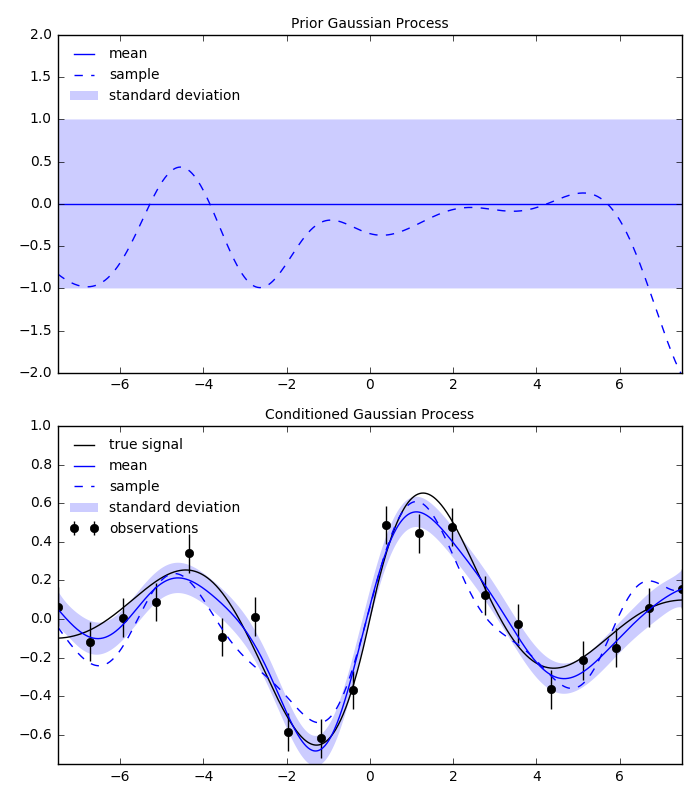
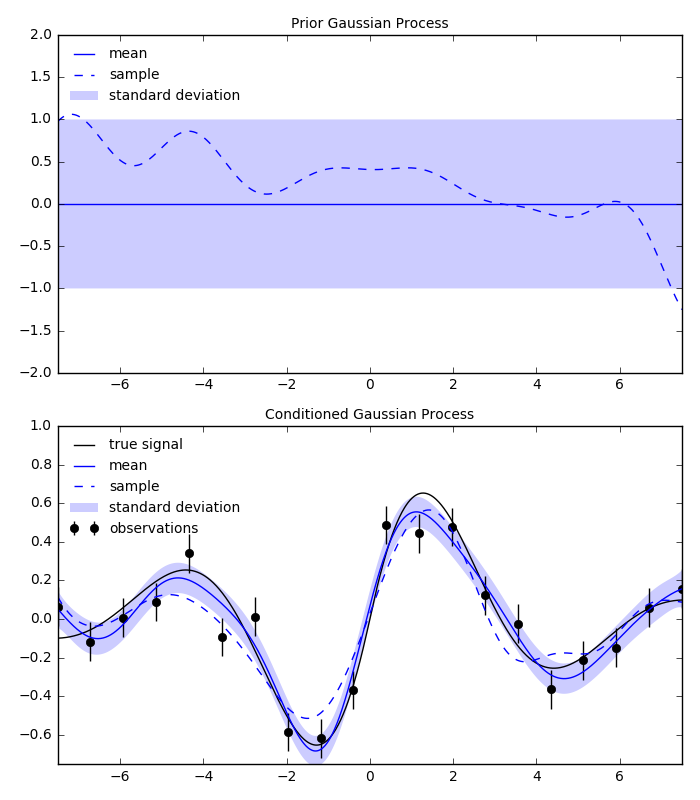
prior gaussian process now defaults to a squared exponential covariance function

diff --git a/rbf/gpr.py b/rbf/gpr.py
@@ -235,7 +235,7 @@ covariance functions described as
 and
 
 .. math::
-  C_u(x,x') = b\phi\\left(\\frac{||x - x'||_2}{c}\\right), 
+  C_u(x,x') = b\phi\\left(||x - x'||_2,c\\right), 
   
 where :math:`a`, :math:`b`, and :math:`c` are user specified 
 coefficients. The literature on radial basis functions and Gaussian 
@@ -245,7 +245,7 @@ positive definite radial function. One common choice for :math:`\phi`
 is the squared exponential function,
 
 .. math::
-  \phi(r) = \exp(-r^2),
+  \phi(r,c) = \exp\\left(-r^2/c^2\\right),
 
 which has the benefit of being infinitely differentiable. See [1] for 
 a list of commonly used radial functions as well as for more 
@@ -316,10 +316,10 @@ def _sigfigs(val,n):
   display purposes.
   '''
   if val == 0.0:
-    return 0.0
+    return np.float64(0.0)
   
   if ~np.isfinite(val):
-    return val
+    return np.float64(val)
     
   d = -np.int(np.log10(np.abs(val))) + n - 1 
   out = np.round(val,d)
@@ -572,9 +572,10 @@ def _prior_factory(basis,coeff,order):
   @_Memoize
   def mean(x,diff):
     a,b,c = coeff  
-    out = np.zeros(x.shape[0])
     if sum(diff) == 0:
-      out[:] = a
+      out = np.full(x.shape[0],a,dtype=float)
+    else:
+      out = np.zeros(x.shape[0],dtype=float)
 
     return out
       
@@ -582,7 +583,7 @@ def _prior_factory(basis,coeff,order):
   def covariance(x1,x2,diff1,diff2):
     a,b,c = coeff  
     diff = diff1 + diff2
-    out = b*(-1)**sum(diff2)*basis(x1,x2,eps=1.0/c,diff=diff)
+    out = b*(-1)**sum(diff2)*basis(x1,x2,eps=c,diff=diff)
     if np.any(~np.isfinite(out)):
       raise ValueError(
         'Encountered a non-finite prior covariance. This may be '
@@ -1209,22 +1210,24 @@ class GaussianProcess(object):
 class PriorGaussianProcess(GaussianProcess):
   ''' 
   A *PriorGaussianProcess* instance represents a stationary Gaussian 
-  process process which has a constant mean and a covariance function 
+  process which has a constant mean and a covariance function 
   described by a radial basis function. The prior can also be given a 
-  null space containing all polynomials of order *order*.  
+  null space containing all polynomials of order *order*.
 
   Parameters
   ----------
-  basis : RBF instance
-    Radial basis function describing the covariance function
-    
   coeff : 3-tuple  
-    Tuple of three distribution coefficients, *a*, *b*, and *c*. *a* 
-    is the mean, *b* scales the amplitude of the covariance, and *c* 
-    is the reciprocal of the shape parameter, *eps*, that is used to 
-    define *RBF* instances. In most cases *c* can be interpreted as 
-    the characteristic length-scale.
+    Tuple of three coefficients, *a*, *b*, and *c*, describing the 
+    prior probability distribution.  *a* is the mean and, when using 
+    the default value for *basis*, *b* and *c* describe the prior 
+    variance and characteristic length-scale.  In general, *b* scales 
+    the covariance function, and *c* is the shape parameter, *eps*, 
+    that is used to define *basis*.
       
+  basis : RBF instance, optional
+    Radial basis function describing the covariance function. Defaults 
+    to a squared exponential, *rbf.basis.se*.
+    
   order : int, optional
     Order of the polynomial null space. Defaults to -1, which means 
     that there is no null space.
@@ -1238,15 +1241,15 @@ class PriorGaussianProcess(GaussianProcess):
   exponential function with mean = 0, variance = 1, and characteristic 
   length scale = 2.
   
-  >>> from rbf.basis import ga,phs3
-  >>> gp = PriorGaussianProcess(ga,(0,1,2))
+  >>> gp = PriorGaussianProcess((0.0,1.0,2.0))
   
   Instantiate a PriorGaussianProcess which is equivalent to a 1-D thin 
   plate spline with penalty parameter 0.01. Then find the conditional 
   mean and uncertainty of the Gaussian process after incorporating 
   observations
   
-  >>> gp = PriorGaussianProcess(phs3,(0.0,0.01,1.0),order=1)
+  >>> from rbf.basis import phs3
+  >>> gp = PriorGaussianProcess((0.0,0.01,1.0),basis=phs3,order=1)
   >>> y = np.array([[0.0],[0.5],[1.0],[1.5],[2.0]])
   >>> d = np.array([0.5,1.5,1.25,1.75,1.0])
   >>> sigma = np.array([0.1,0.1,0.1,0.1,0.1])
@@ -1267,25 +1270,21 @@ class PriorGaussianProcess(GaussianProcess):
   3. Not all radial basis functions are positive definite, which means 
   that it is possible to instantiate a *PriorGaussianProcess* that 
   does not have a valid covariance function. The squared exponential 
-  basis function, *rbf.basis.ga*, is positive definite for all spatial 
+  basis function, *rbf.basis.se*, is positive definite for all spatial 
   dimensions. Furthermore, it is infinitely differentiable, which 
   means its derivatives are also positive definite. For this reason 
-  *rbf.basis.ga* is a generally safe choice for *basis*.
+  *rbf.basis.se* is a generally safe choice for *basis*.
 
   4. See the notes in the *GaussianProcess* docstring.
   
   '''
-  def __init__(self,basis,coeff,order=-1,dim=None):
+  def __init__(self,coeff,basis=rbf.basis.se,order=-1,dim=None):
     coeff = np.asarray(coeff,dtype=float)  
     if coeff.shape[0] != 3:
       raise ValueError('*coeff* must be a (3,) array')
-    if coeff[2] == 0.0:   
-      raise ValueError('characteristic length-scale cannot be zero')
       
     mean,covariance = _prior_factory(basis,coeff,order)
-    GaussianProcess.__init__(self,mean,covariance,
-                             order=order,dim=dim)
-
+    GaussianProcess.__init__(self,mean,covariance,order=order,dim=dim)
     # A PriorGaussian process has these additional private attributes
     self._basis = basis
     self._coeff = coeff
@@ -1296,9 +1295,9 @@ class PriorGaussianProcess(GaussianProcess):
       # make string for __repr__
       a = _sigfigs(self._coeff[0],3)
       b = _sigfigs(self._coeff[1],3)
-      c_inv = _sigfigs(1.0/self._coeff[2],3)
+      c = 1.0/_sigfigs(1.0/self._coeff[2],3)
       eps = rbf.basis.get_eps()
-      cov_expr = b*self._basis.expr.subs(eps,c_inv)
+      cov_expr = b*self._basis.expr.subs(eps,c)
       try:
         # try to simplify cov_expr to a float. If this is possible, 
         # then convert NaNs to 0.0 which accounts for the singularity 
@@ -1318,159 +1317,3 @@ class PriorGaussianProcess(GaussianProcess):
     return self._repr_string
     
 
-def _get_trend(y,d,sigma,x,order,diff):
-  ''' 
-  returns the best fitting polynomial to observations *d*, which were 
-  made at *y* and have uncertainties *sigma*. The polynomial has order 
-  *order*, is evaluated at *x*, and then differentiated by *diff*.
-  '''
-  if y.shape[0] == 0:
-    # lstsq is unable to handle when y.shape[0]==0. In this case, 
-    # return an array of zeros with shape equal to x.shape[0]
-    return np.zeros(x.shape[0])
-    
-  powers = rbf.poly.powers(order,y.shape[1])
-  Gobs = rbf.poly.mvmonos(y,powers) # system matrix
-  W = np.diag(1.0/sigma) # weight matrix
-  coeff = np.linalg.lstsq(W.dot(Gobs),W.dot(d))[0]
-  Gitp = rbf.poly.mvmonos(x,powers,diff) 
-  trend = Gitp.dot(coeff) # evaluated trend at interpolation points
-  return trend
-
-
-def gpr(y,d,sigma,coeff,x=None,basis=rbf.basis.ga,order=1,
-        diff=None,procs=0,condition=True,return_sample=False):
-  '''     
-  Performs Guassian process regression on the observed data. This is a 
-  convenience function which initiates a *PriorGaussianProcess*, 
-  conditions it with the observations, differentiates it (if 
-  specified), and then evaluates the resulting *GaussianProcess* at 
-  *x*. 
-  
-  Parameters
-  ----------
-  y : (N,D) array
-    Observation points.
-
-  d : (...,N) array
-    Observed data at *y*.
-  
-  sigma : (...,N) array
-    Data uncertainty. *np.inf* can be used to indicate that the data 
-    is missing, which will cause the corresponding value in *d* to be 
-    ignored.
-  
-  coeff : 3-tuple
-    Variance, mean, and characteristic length scale for the prior 
-    Gaussian process.
-  
-  x : (M,D) array, optional
-    Evaluation points, defaults to *y*.
-  
-  basis : RBF instance, optional      
-    Radial basis function which describes the prior covariance 
-    structure. Defaults to *rbf.basis.ga*.
-    
-  order : int, optional
-    Order of the prior null space.
-
-  diff : (D,), optional         
-    Specifies the derivative of the returned values. 
-
-  procs : int, optional
-    Distribute the tasks among this many subprocesses. This defaults 
-    to 0 (i.e. the parent process does all the work).  Each task is to 
-    perform Gaussian process regression for one of the (N,) arrays in 
-    *d* and *sigma*. So if *d* and *sigma* are (N,) arrays then using 
-    multiple process will not provide any speed improvement.
-  
-  condition : bool, optional
-    If False then the prior Gaussian process will not be conditioned 
-    with the data and the output will just be the prior or its 
-    specified derivative. If the prior contains a polynomial null 
-    space (i.e. order > -1), then the monomial coefficients will be 
-    set to those that best fit the data. See note 3 in the 
-    GaussianProcess documentation.
-    
-  return_sample : bool, optional
-    If True then *out_mean* is a sample of the posterior, rather than 
-    its expected value. *out_sigma* will then be an array of zeros, 
-    since a sample has no associated uncertainty. If *return_sample* 
-    is True and *condition* is False then a sample of the prior will 
-    be returned.
-    
-  Returns 
-  ------- 
-  out_mean : (...,M) array
-    Mean of the posterior at *x*.
-      
-  out_sigma : (...,M) array  
-    One standard deviation of the posterior at *x*.
-      
-  '''
-  y = np.asarray(y,dtype=float)
-  d = np.asarray(d,dtype=float)
-  sigma = np.asarray(sigma,dtype=float)
-  if diff is None:   
-    diff = np.zeros(y.shape[1],dtype=int)
-
-  if x is None:
-    x = y
-  
-  m = x.shape[0]
-  bcast_shape = d.shape[:-1]
-  q = int(np.prod(bcast_shape))
-  n = y.shape[0]
-  d = d.reshape((q,n))
-  sigma = sigma.reshape((q,n))
-
-  def doit(i):
-    logger.debug('Performing GPR on data set %s of %s ...' % (i+1,q))
-    gp = PriorGaussianProcess(basis,coeff,order=order,dim=x.shape[1])
-    # ignore data that has infinite uncertainty
-    is_finite = ~np.isinf(sigma[i])
-    if condition:
-      gp = gp.recursive_condition(y[is_finite],d[i,is_finite],
-                                  sigma=sigma[i,is_finite])
-
-    gp = gp.differentiate(diff)
-    try:
-      if return_sample:
-        out_mean_i = gp.draw_sample(x)
-        out_sigma_i = np.zeros_like(out_mean_i)
-      else:  
-        out_mean_i,out_sigma_i = gp.mean_and_uncertainty(x)
-      
-      if gp.order != -1:
-        # Read note 3 in the GaussianProcess documentation. If a 
-        # polynomial null space exists, then I am setting the monomial 
-        # coefficients to be the coefficients that best fit the data. 
-        # This deviates from the default behavior for a GaussianProcess, 
-        # which sets the monomial coefficients to zero.
-        trend = _get_trend(y[is_finite],d[i,is_finite],
-                           sigma[i,is_finite],x,order,diff)
-        out_mean_i += trend                         
-
-    except np.linalg.LinAlgError:    
-      logger.info(
-        'Could not compute the expected values and uncertainties for '
-        'the Gaussian process. This may be due to insufficient data. '
-        'The returned expected values and uncertainties will be NaN '
-        'and INF, respectively.') 
-      out_mean_i = np.empty(x.shape[0])  
-      out_mean_i[:] = np.nan
-      out_sigma_i = np.empty(x.shape[0])  
-      out_sigma_i[:] = np.inf
-
-    return out_mean_i,out_sigma_i
-
-  out = rbf.mp.parmap(doit,range(q),workers=procs)   
-  out_mean = np.array([k[0] for k in out])
-  out_sigma = np.array([k[1] for k in out])
-  out_mean = out_mean.reshape(bcast_shape + (m,))
-  out_sigma = out_sigma.reshape(bcast_shape + (m,))
-  return out_mean,out_sigma
-
-  
-
-  

diff --git a/rbf/basis.py b/rbf/basis.py
@@ -25,6 +25,7 @@ Inverse multiquadratic             imq           :math:`(1 + (\epsilon r)^2)^{-1
 Inverse quadratic                  iq            :math:`(1 + (\epsilon r)^2)^{-1}`
 Gaussian                           ga            :math:`\exp(-(\epsilon r)^2)`
 Exponential                        exp           :math:`\exp(-(\epsilon r))`
+Squared Exponential                se            :math:`\exp(-(r/\epsilon)^2)`
 =================================  ============  ======================================
 
 ''' 
@@ -366,6 +367,7 @@ exp = RBF(sympy.exp(-(_EPS*_R)),package='cython')
 imq = RBF(1/sympy.sqrt(1+(_EPS*_R)**2),package='cython')
 iq = RBF(1/(1+(_EPS*_R)**2),package='cython')
 ga = RBF(sympy.exp(-(_EPS*_R)**2),package='cython')
+se = RBF(sympy.exp(-(_R/_EPS)**2),package='cython')
 mq = RBF(sympy.sqrt(1 + (_EPS*_R)**2),package='cython')
 
 

diff --git a/docs/scripts/gpr.a.py b/docs/scripts/gpr.a.py
@@ -10,9 +10,9 @@ sigma = 0.1*np.ones(20) # observation uncertainty
 # noisy observations of the signal
 d = np.exp(-0.3*np.abs(y))*np.sin(y) + np.random.normal(0.0,sigma)
 # form a prior Gaussian process which has a squared exponential basis 
-# function (rbf.basis.ga), 0.0 for the mean, 1.0 for the standard 
+# function (rbf.basis.se), 0.0 for the mean, 1.0 for the standard 
 # deviation, and 2.0 for the characteristic length scale.
-gp = rbf.gpr.PriorGaussianProcess(rbf.basis.ga,(0.0,1.0,2.0))
+gp = rbf.gpr.PriorGaussianProcess((0.0,1.0,2.0),basis=rbf.basis.se)
 sample = gp.draw_sample(x[:,None]) # generate random sample
 mean,std = gp(x[:,None]) # find the mean and standard dev. at x
 gp_cond = gp.condition(y[:,None],d,sigma=sigma) # condition with data
